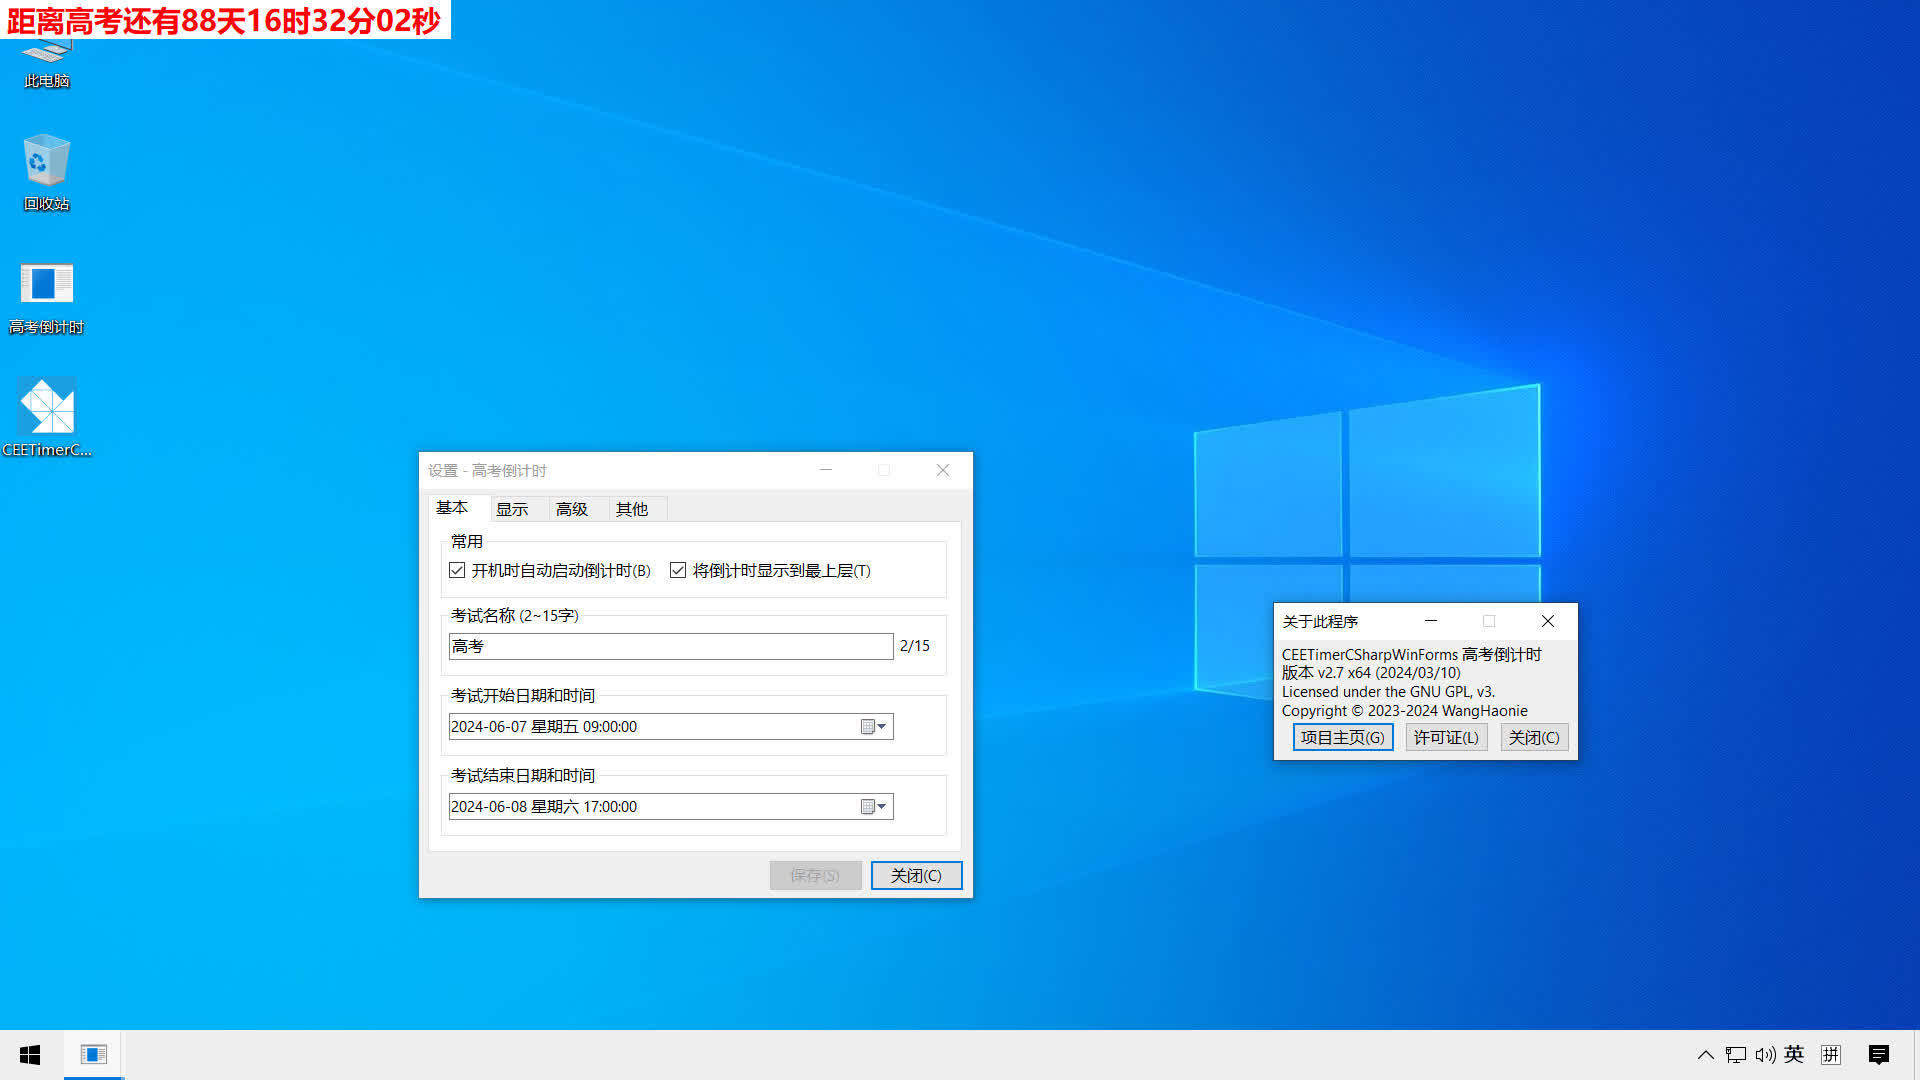
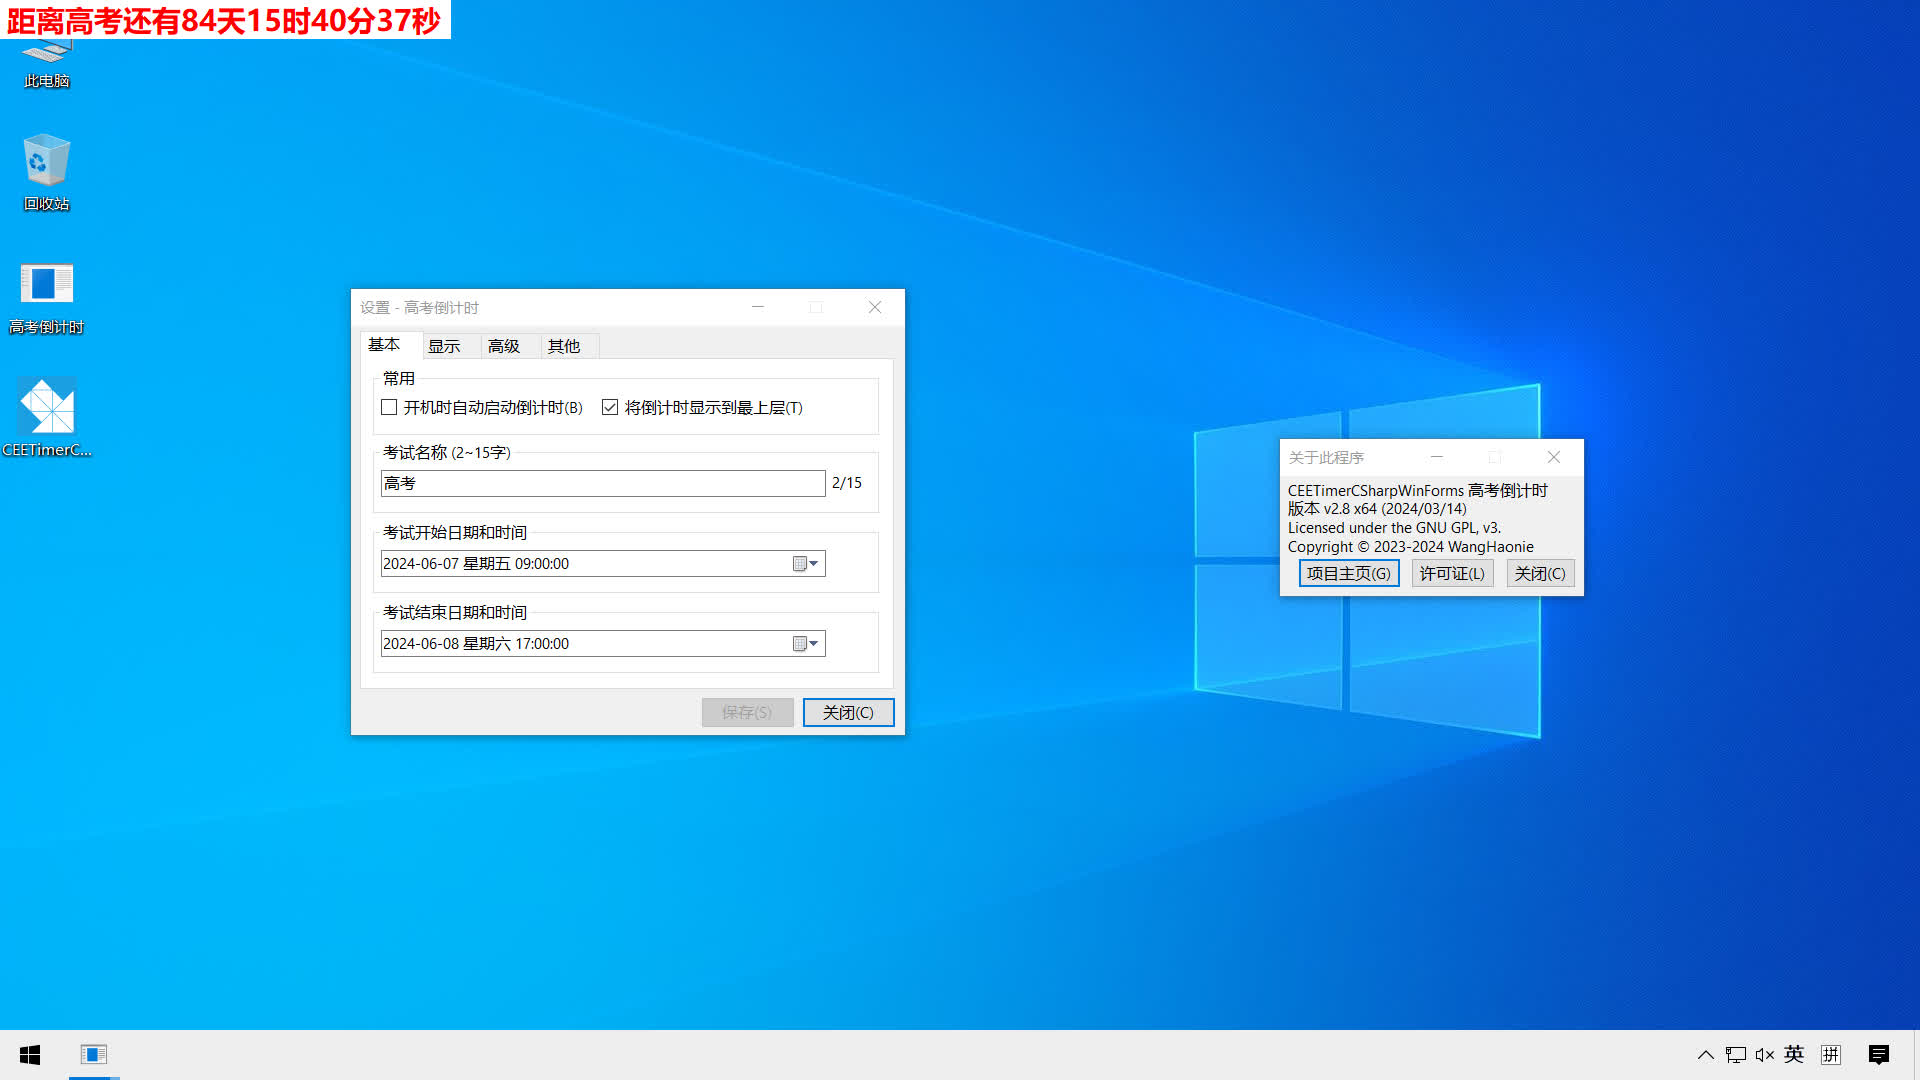
发布了 v2.8

Changed region(s): [[0.1562, 0.2444, 0.5312, 0.8556], [0.6562, 0.3972, 0.8438, 0.7333], [0.0938, 0.0, 0.2188, 0.0306]]

diff --git a/CEETimerCSharpWinForms/Modules/LaunchManager.cs b/CEETimerCSharpWinForms/Modules/LaunchManager.cs
@@ -11,8 +11,8 @@ namespace CEETimerCSharpWinForms.Modules
 {
     public class LaunchManager
     {
-        public const string AppVersion = "2.7";
-        public const string AppVersionText = $"版本 v{AppVersion} x64 (2024/03/10)";
+        public const string AppVersion = "2.8";
+        public const string AppVersionText = $"版本 v{AppVersion} x64 (2024/03/14)";
         public const string InfoMsg = "提示 - 高考倒计时";
         public const string WarnMsg = "警告 - 高考倒计时";
         public const string ErrMsg = "错误 - 高考倒计时";

diff --git a/README.md b/README.md
@@ -2,9 +2,9 @@
 [![GitHub all releases](https://img.shields.io/github/downloads/WangHaonie/CEETimerCSharpWinForms/total?logo=github&label=%E4%B8%8B%E8%BD%BD%E9%87%8F&color=%23DC67A5)](#) [![GitHub release (with filter)](https://img.shields.io/github/v/release/WangHaonie/CEETimerCSharpWinForms?logo=github&label=%E6%9C%80%E6%96%B0%E7%89%88&color=%23178600)](https://github.com/WangHaonie/CEETimerCSharpWinForms/releases/latest/) [![GitHub Repo stars](https://img.shields.io/github/stars/WangHaonie/CEETimerCSharpWinForms?logo=github&label=Stars&color=%23E5B84E)](#) [![GitHub](https://img.shields.io/github/license/WangHaonie/CEETimerCSharpWinForms?logo=github&label=%E8%AE%B8%E5%8F%AF%E8%AF%81&color=%233C9DF8)](https://github.com/WangHaonie/CEETimerCSharpWinForms/blob/main/LICENSE)
 ## 简介
 CEETimerCSharpWinForms，适用于 Windows 系统的高考倒计时，自 v1.6 起不再只是高考倒计时，你可以自定义考试名称。
-> 开发环境：Windows 11 Pro x64 (22635.3276)，Visual Studio 2022 (17.9.2)，C# (12.0)，WinForms，.NET Framework 4.7.2
+> 开发环境：Windows 11 Pro x64 (22635.3350)，Visual Studio 2022 (17.9.3)，C# (12.0)，WinForms，.NET Framework 4.7.2
 ## 运行截图
-> v2.7，Windows 10，1920x1080，125% 缩放
+> v2.8，Windows 10，1920x1080，125% 缩放
 
 ![主窗口](./Screenshot.jpg)
 ## 主要功能
